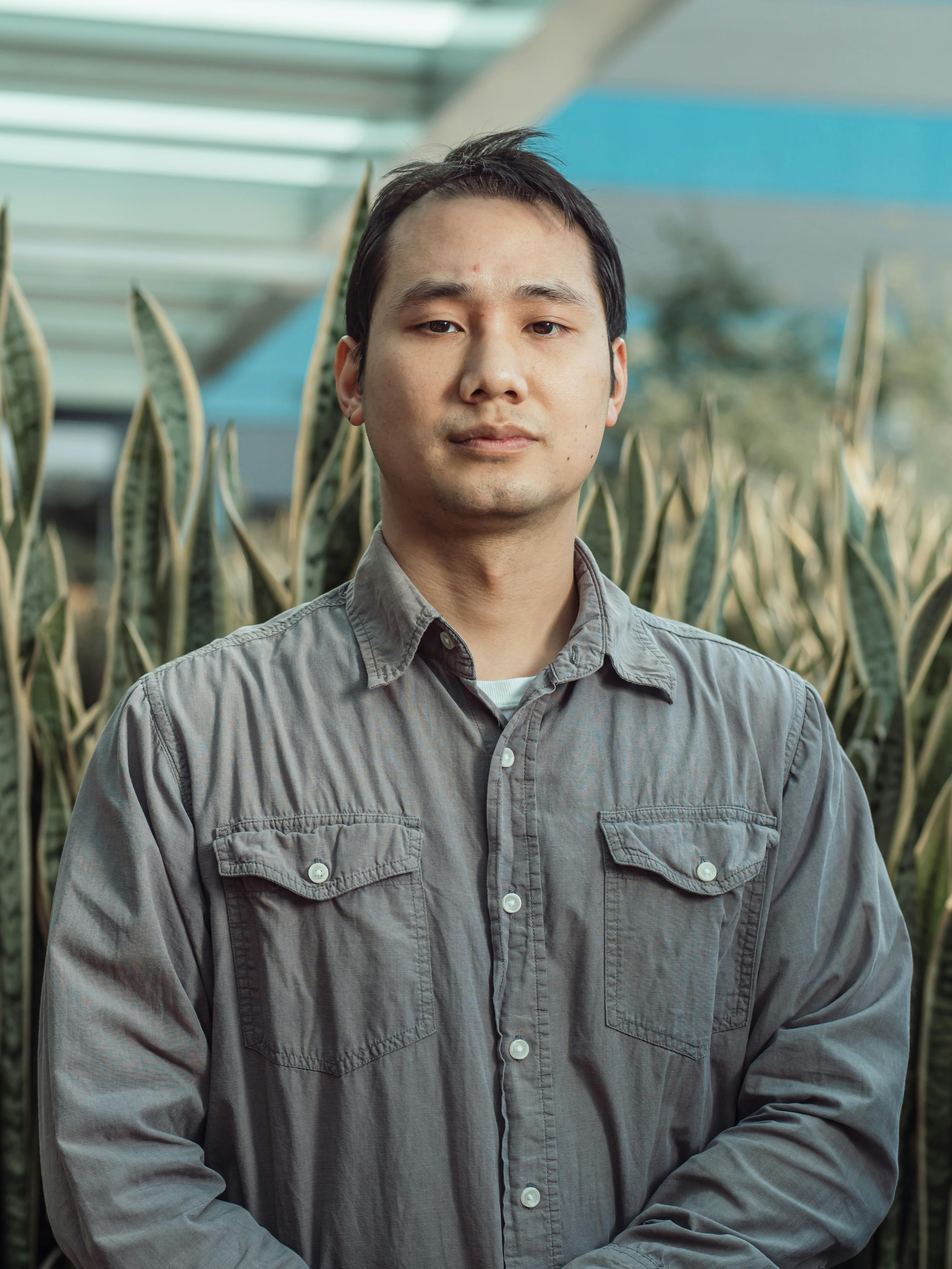
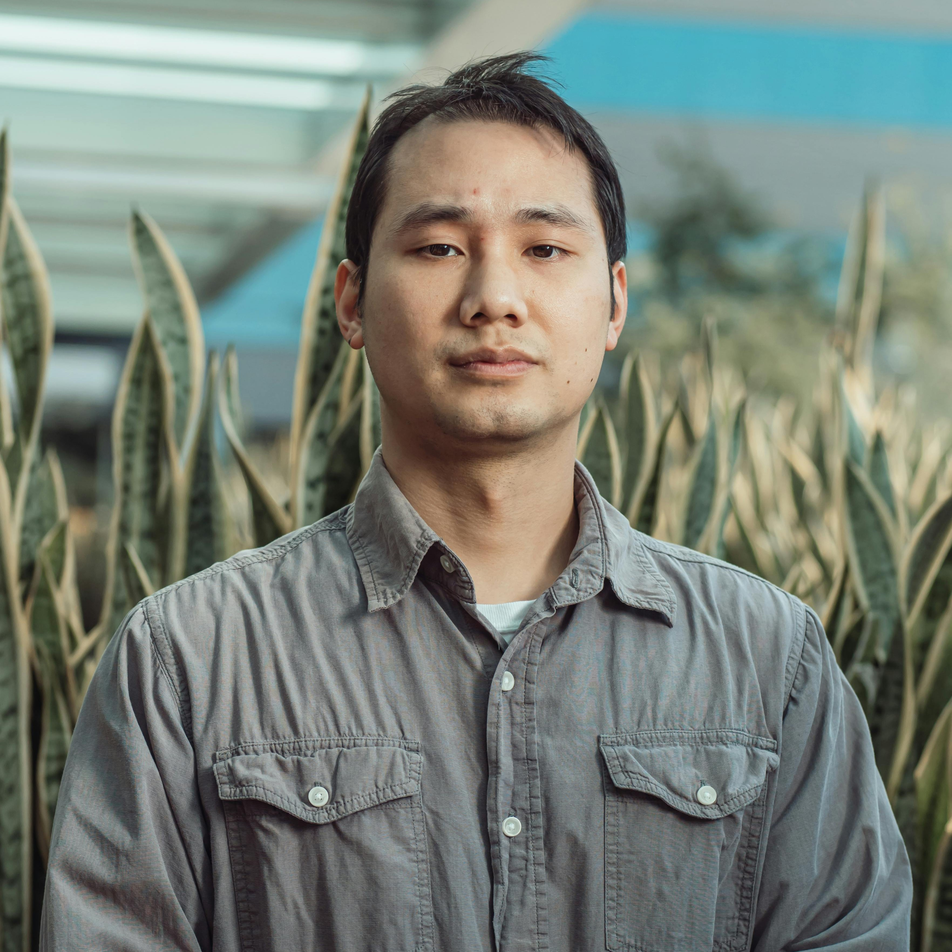
Finished About

diff --git a/services.html b/services.html
@@ -24,64 +24,13 @@
             </ul>
         </nav>
 
+        <!-- Front Image -->
+        <div id="">
+            <img src="images/redDoorHouseAfter.png" alt="House with red door after BSL">
+        </div>
+
         <!-- Use the main area to add the main content of the webpages -->
         <main>
-<<<<<<< HEAD
-            <div class="serviceContainer">
-                <h1>Services</h1>
-
-                <section class="service-category">
-                    <h2>Garden Design Packages</h2>
-                    <ul>
-                        <li><strong>Sprout Plan:</strong> On-site consultation, basic layout plan (front or back yard), plant selection guide (native &amp; low-water species). <span class="price">$250</span></li>
-                        <li><strong>Growth Plan:</strong> Full-yard design (Front &amp; back), custom planting plan, soil and irrigation recommendations, 3D concept images. <span class="price">$750</span></li>
-                        <li><strong>Bloom Plan:</strong> Full-yard design, sourcing &amp; coordinating plant delivery, design adjustments post-installation, one follow-up maintenance visit. <span class="price">$1,200</span></li>
-                    </ul>
-                    <img src="images2/bsl/services1.jpg" alt="Work in progress of a lawn">
-                </section>
-
-                <section class="service-category">
-                    <h2>Lawn Installation &amp; Maintenance</h2>
-                    <ul>
-                        <li><strong>Sod Installation:</strong> Preparation, soil amendment, sod laying, first watering, starter care instructions. <span class="price">$2.50–$4.50 per sq. ft.</span></li>
-                        <li><strong>Native Grass Seeding:</strong> Eco-conscious seeding blend, soil prep, slow-release fertilizer. <span class="price">$1,000–$1,500 per yard (typical residential lot)</span></li>
-                        <li><strong>Monthly Maintenance:</strong> Mowing, edging, organic fertilization, weed control. <span class="price">$150–$250/month</span></li>
-                    </ul>
-                    <img src="images2/bsl/services2.jpg" alt="Weeds (dandelions) in a yard">
-                </section>
-
-                <section class="service-category">
-                    <h2>Eco-Irrigation Systems</h2>
-                    <ul>
-                        <li><strong>Basic Drip System:</strong> Drip irrigation for gardens, programmable timer. <span class="price">$850</span></li>
-                        <li><strong>Smart Yard System:</strong> Drip &amp; micro-sprinklers, app-controlled water schedule, rain sensor. <span class="price">$1,500</span></li>
-                        <li><strong>Rain Harvest Integration:</strong> Smart system plus rainwater catchment barrels and filtration. <span class="price">$2,200</span></li>
-                    </ul>
-                    <img src="images2/bsl/services3.jpg" alt="Sprinkler hydrating a lawn">
-                </section>
-
-                <section class="service-category">
-                    <h2>Seasonal Clean-up &amp; Care</h2>
-                    <ul>
-                        <li><strong>Spring Prep:</strong> Leaf &amp; debris removal, bed prep, pruning, first fertilization. <span class="price">$200-$450</span></li>
-                        <li><strong>Fall Ready:</strong> Leaf &amp; debris removal, perennial cutbacks, winter fertilizer. <span class="price">$200-$450</span></li>
-                        <li><strong>Storm Recovery:</strong> Branch &amp; debris clearing, lawn recovery treatments. <span class="price">Starting at $150</span></li>
-                    </ul>
-                    <img src="images2/bsl/services4.jpg" alt="A woman planting a plant">
-                </section>
-
-                <section class="service-category">
-                    <h2>Specialty Add-ons</h2>
-                    <ul>
-                        <li><strong>Patio planters &amp; decorative pots:</strong> Selection, planting, placement. <span class="price">$50-$200 each</span></li>
-                        <li><strong>Pollinator garden installation:</strong> Bee &amp; butterfly-friendly plants, signage. <span class="price">$300-$700</span></li>
-                        <li><strong>Low-voltage garden lighting:</strong> Path &amp; accent lights, timer or solar-powered. <span class="price">$400-$1,000</span></li>
-                    </ul>
-                    <img src="images2/bsl/services5.jpg" alt="Man cleaning up a lawn">
-                </section>
-
-                <section class="service-category">
-=======
             <H1>Services</H1>
             <div class="servicesgarden">
                 <section class="section1">
@@ -211,55 +160,26 @@
             </div>
 
                 <section class="section1">
->>>>>>> 91f4b6b8d3192b19023012787a25d8e31815b2d7
                     <h2>Discounts &amp; Bundles</h2>
                     <ul>
                         <li>10% off when booking both design and installation together.</li>
                         <li>Loyalty Maintenance Plan: Book 12 months of maintenance, get 1 month free.</li>
                         <li>Free Estimates — Every new project starts with a free on-site consultation.</li>
-<<<<<<< HEAD
-                    </ul>
-                </section>
-            </div>
-=======
                         <br>
                     </ul>
                 </section>
->>>>>>> 91f4b6b8d3192b19023012787a25d8e31815b2d7
         </main>
+    </div>
 
-<<<<<<< HEAD
-        <!-- Footer -->
-        <footer>
-=======
     <!-- Footer -->
     <footer>
     <div class="footer-container">
         <div class="footer-col">
->>>>>>> 91f4b6b8d3192b19023012787a25d8e31815b2d7
             <ul>
                 <li><a href="index.html">Bright Sprout</a></li>
                 <li>
                     <em>*This site was created as part of the Web Development II course at Northwest Missouri State University and was developed to learn and enhance the concepts within that course. It is not intended for public use.</em>
                 </li>
-<<<<<<< HEAD
-                <li>Contact Us
-                    <ul>
-                        <li>(555)-123-LAND</li>
-                        <li>Info@brightsprout.com</li>
-                    </ul>
-                </li>
-                <li>Lawn Care
-                    <ul>
-                        <li><a href="about.html">About Us</a></li>
-                        <li><a href="classes.html">Services</a></li>
-                        <li><a href="nutrition.html">Blog</a></li>
-                    </ul>
-                </li>
-            </ul>
-            <p><a href=""></a></p>
-        </footer>
-=======
             </ul>
         </div>
 
@@ -281,5 +201,4 @@
         </div>
     </div>
 </footer>
->>>>>>> 91f4b6b8d3192b19023012787a25d8e31815b2d7
 </body>

diff --git a/about.html b/about.html
@@ -1,5 +1,4 @@
 <!DOCTYPE html>
-<!-- This website template was created by : Jin Fitzmaurice -->
 <html lang="">
 
 <head>
@@ -7,7 +6,6 @@
     <meta charset="utf-8">
     <link rel="stylesheet" href="styles.css">
 
-    <!--<meta name="viewport" content="width=device-width, inital-scale=1">-->
 </head>
 
 <body>
@@ -35,22 +33,28 @@
             </section>
             <div class="team-member">
                 <img src="images/jamie.jpg" alt="Jamie Rivers">
+                <div class="member-text">
                 <h3>Jamie Rivers | Owner & Designer</h3>
-                <p>"I believe a garden should be both beautiful and kind to the planet."</p>
-                <p>Jamie’s expertise in horticulture and sustainable design guides every project. With a keen eye for detail and a deep respect for the natural environment, Jamie ensures the landscape is not only visually stunning but ecologically responsible.</p>
+                <p>"I believe a garden should be both beautiful and kind to the planet."<br><br>
+                    Jamie’s expertise in horticulture and sustainable design guides every project. With a keen eye for detail and a deep respect for the natural environment, Jamie ensures the landscape is not only visually stunning but ecologically responsible.</p>
             </div>
+                </div>
 
             <div class="team-member">
                 <img src="images/mina.png" alt="Mina Patel">
+                <div class="member-text">
                 <h3>Mina Patel | Maintenance Lead</h3>
                 <p>Mina keeps every garden at its peak through all seasons. Her knowledge of plants, soils, and seasonal care routines ensures that your landscape continues to thrive long after installation.</p>
             </div>
+                </div>
 
             <div class="team-member">
                 <img src="images/carlos.jpg" alt="Carlos Lopez">
+                <div class="member-text">
                 <h3>Carlos Lopez | Irrigation Specialist</h3>
                 <p>Carlos is the wizard behind our water-efficient systems. His innovative irrigation solutions ensure your landscape flourishes while conserving one of our most precious resources.</p>
             </div>
+                </div>
         </main>
 
         <!-- Footer -->

diff --git a/styles.css b/styles.css
@@ -63,6 +63,58 @@ nav ul li:last-child:hover a {
     transform: translateY(-2px);
 }
 
+/*======== ABOUT =====*/
+
+#container {
+    width: 100%;
+    margin: 0 auto;
+}
+
+/* Our Story Section */
+#our-story {
+    max-width: 80%;
+    margin: 50px auto 100px auto;
+    line-height: 1.6;
+}
+
+#our-story h2 {
+    font-size: 36px;
+    margin-bottom: 10px;
+}
+
+/* Team Members */
+.team-member {
+    margin-top: 22px;
+    display: flex;
+    align-items: flex-start;
+    gap: 30px;
+    max-width: 80%;
+    margin: 40px auto;
+}
+
+.team-member img {
+    width: 300px;
+    height: 300px;
+    object-fit: fill;
+    border-radius: 50%;
+}
+
+.member-text h3 {
+    margin-top: 0;
+    margin-bottom: 10px;
+    font-size: 30px;
+    line-height: 1.3;
+}
+
+.team-member p {
+    margin-top: 5px;
+    line-height: 1.5;
+}
+.team-member:last-of-type {
+    margin-bottom: 80px;
+}
+
+
 
 /* ========== Main Contact Section ========== */
 #contact {
